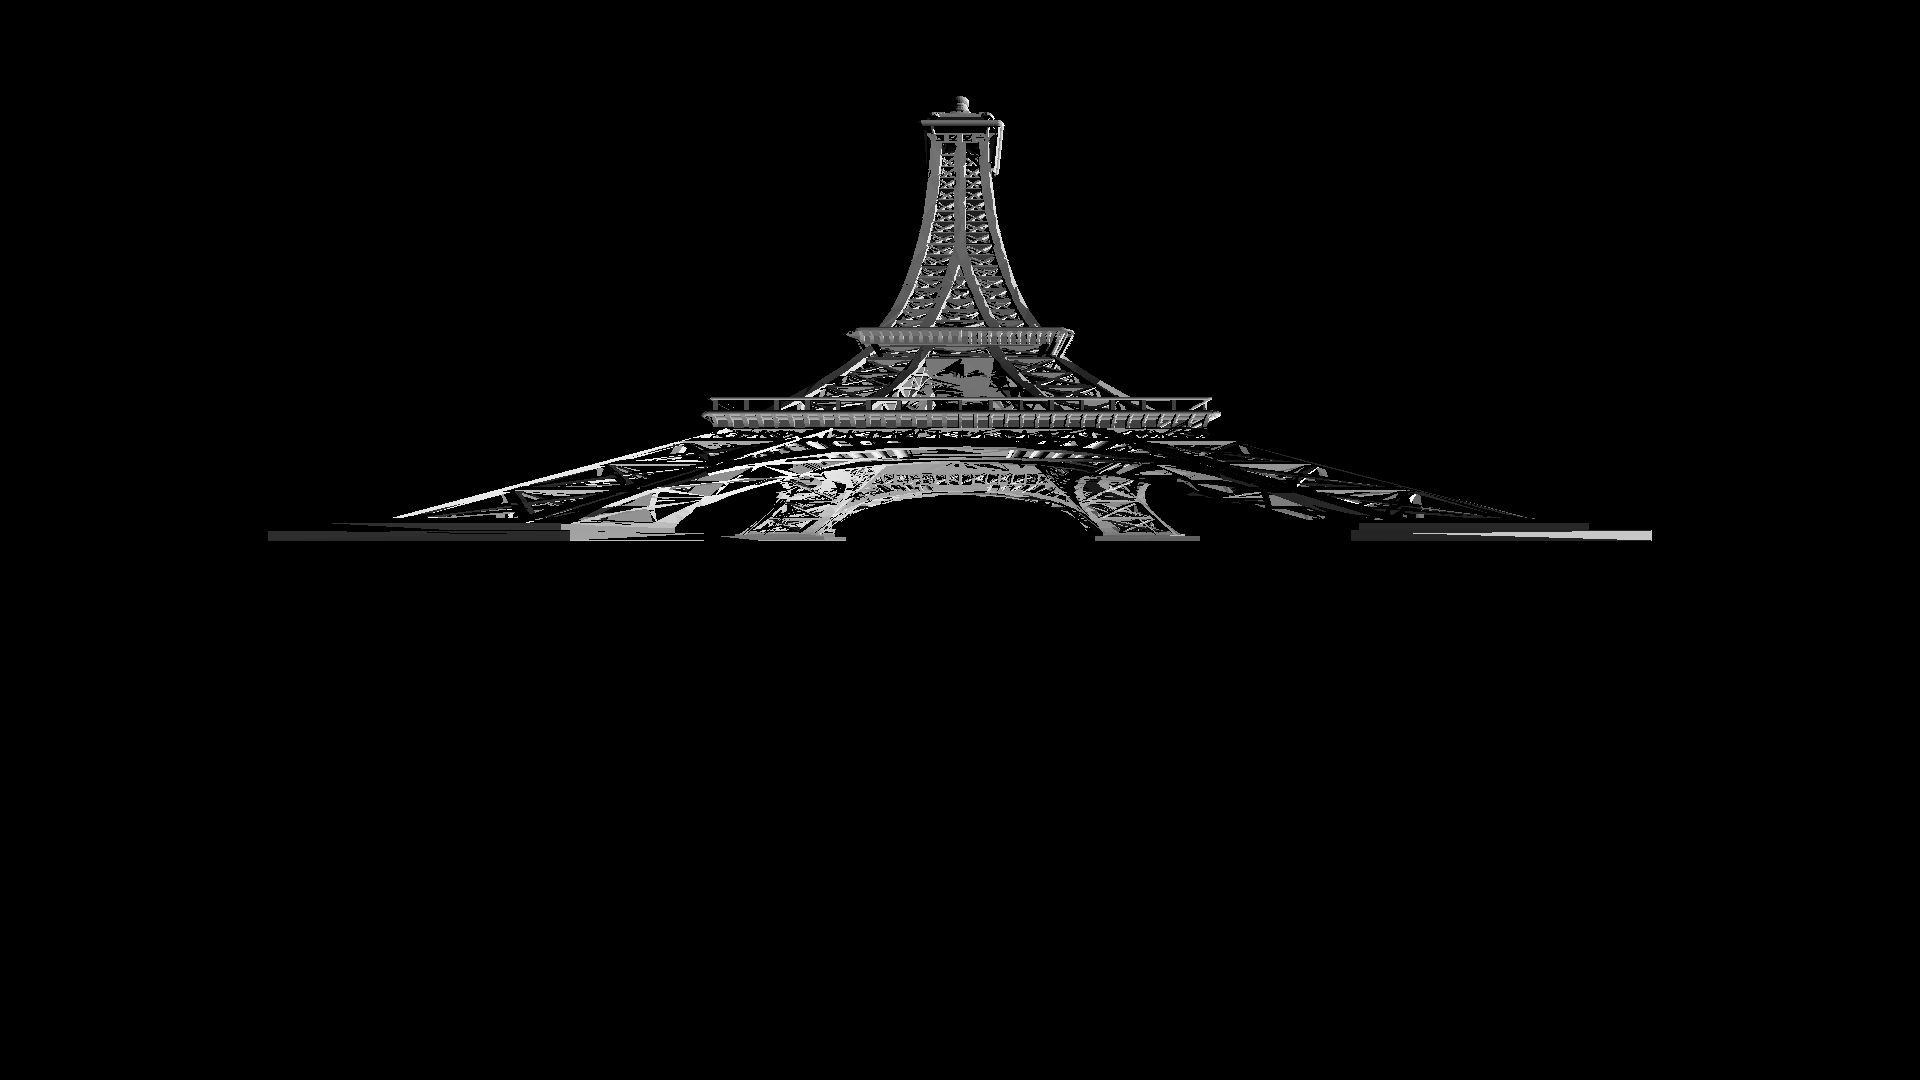
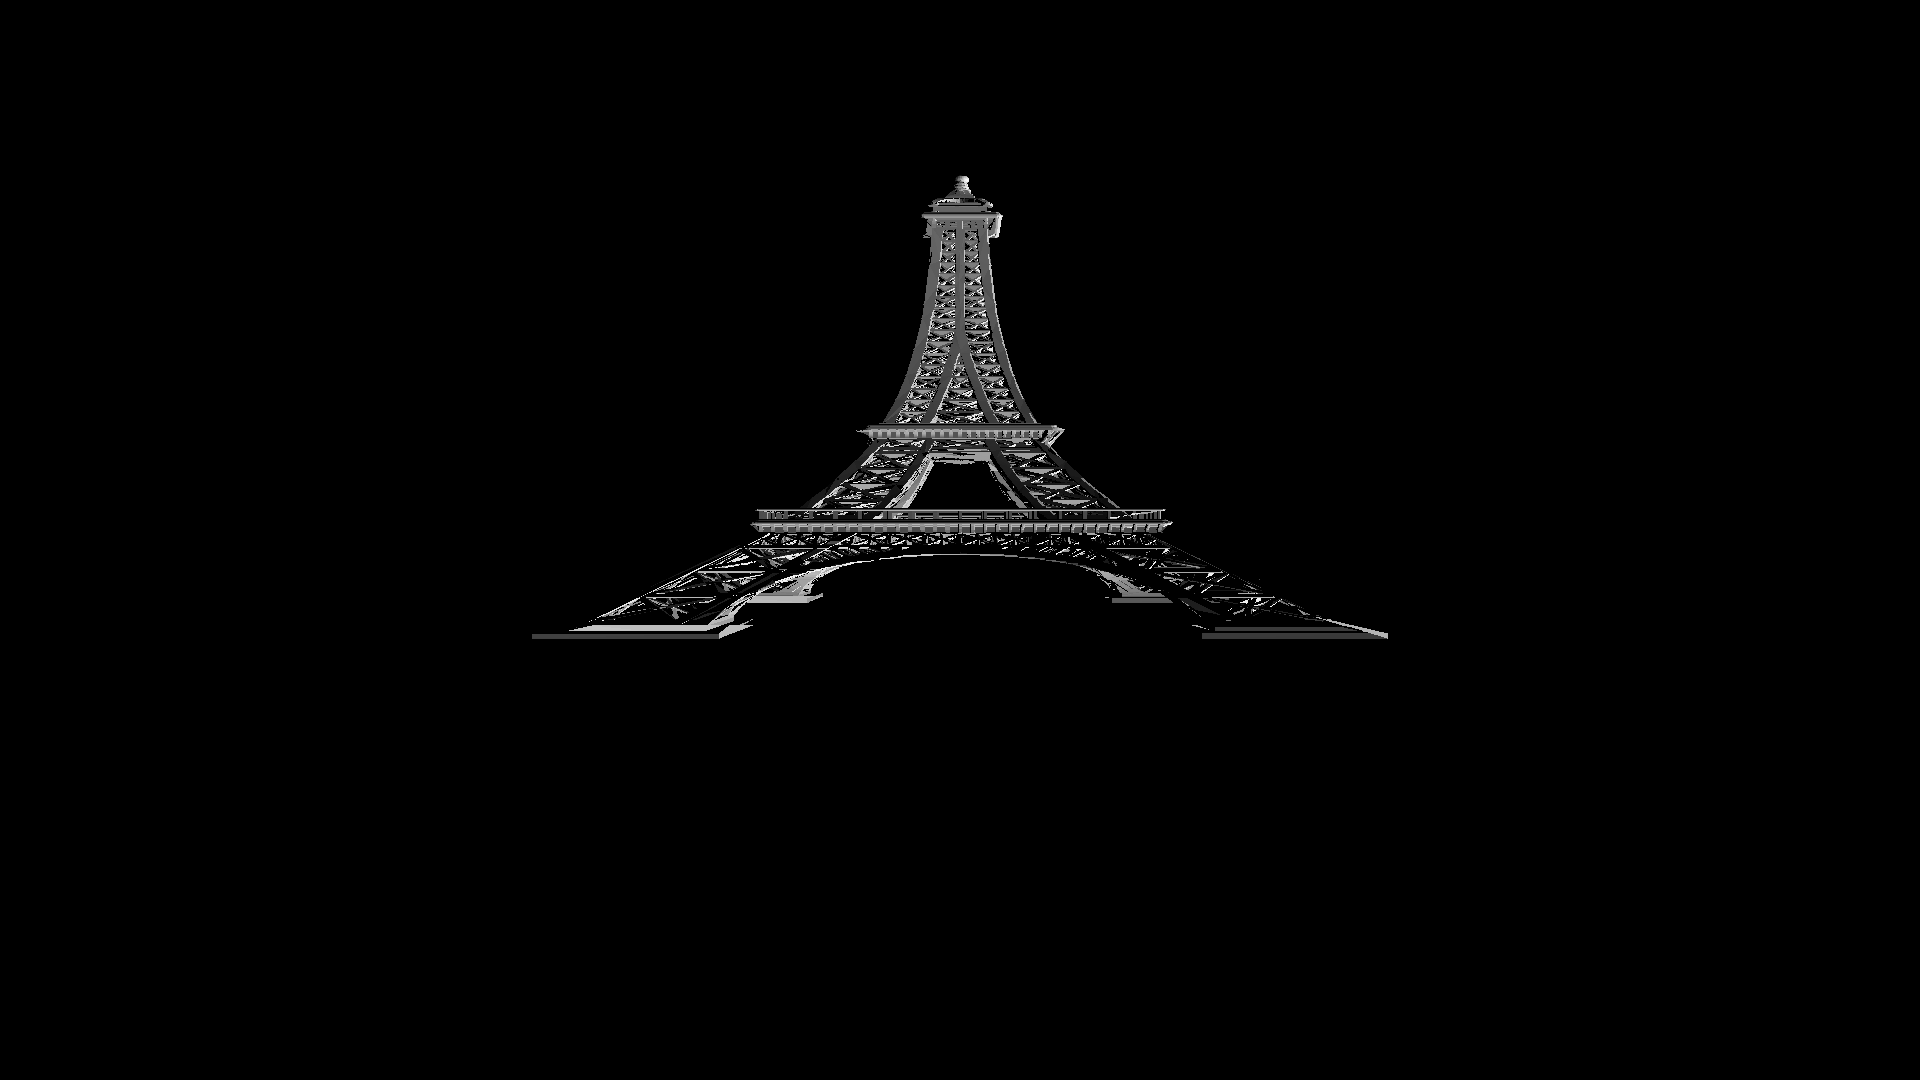
Cleaned up

Changed region(s): [[0.125, 0.0917, 0.875, 0.6111]]

diff --git a/main.py b/main.py
@@ -1,14 +1,11 @@
-from tkinter import W
 from PIL import Image, ImageDraw
 import numpy as np
-import math
 
 #------------------------------------------------------------------
 # CONSTANTS 
 #------------------------------------------------------------------
 aspect = 16.0/9.0
-#aspect = 1.0
-fov = (2 * np.pi) / 9 # 40 degs
+fov = (np.pi) / 2 # 90 degs
 imgy = 1080 
 imgx = int(imgy * aspect)
 
@@ -49,11 +46,6 @@ def rotate(x,y,z):
         [0,0,0,1]
     ])
 
-def to3d(vec4): return vec4[0:3]
-def to2d(vec4): return vec4[0:2]
-
-def toPix(vec4): return tuple(int(v) for v in vec4[0:2])
-
 def unit(v): return v / np.linalg.norm(v)
 def length(v): return np.linalg.norm(v)
 
@@ -61,32 +53,11 @@ def length(v): return np.linalg.norm(v)
 # CLASSES
 #------------------------------------------------------------------
 class Camera():
-    perspective = np.ones((4,4))
-    orientation = np.ones((4,4))
-
     def __init__(self, aspect, fov, near, far, width, height):
-        self.fov = fov 
-        self.aspect = aspect
-        self.near = near
-        self.far = far
-        self.width = width
-        self.height =  height
-
         assert width == int(height * aspect)
-
         trig_y = np.arctan(fov/2.0)
         trig_x = float(aspect) * trig_y
         scale = float(far)/float(far-near)
-
-        '''
-        scale = 1.0/float(far-near)
-        self.perspective = np.array([
-            [2.0/float(width), 0,                 0,                  0],
-            [0,                2.0/float(height), 0,                  0],
-            [0,                0,                 scale,              0],
-            [0,                0,                 -float(near)*scale, 1]
-        ])
-        '''
 
         self.perspective = np.array([
             [trig_x, 0,      0,                  0],
@@ -97,12 +68,11 @@ class Camera():
 
         w_2 = float(width) / 2.0
         h_2 = float(height) / 2.0
-        d_2 = float(far-near) / 2.0
         self.window = np.array([
-            [w_2, 0,   0,   0],
-            [0,   h_2, 0,   0],
-            [0,   0,   d_2, 0],
-            [w_2, h_2, d_2, 1]
+            [w_2, 0,   0, 0],
+            [0,   h_2, 0, 0],
+            [0,   0,   1, 0],
+            [w_2, h_2, 1, 1]
         ])
 
     def look_at(self, eye, at):
@@ -110,7 +80,6 @@ class Camera():
         zaxis = unit(at - eye)
         xaxis = unit(np.cross(np.array([0,1,0]), zaxis))
         yaxis = np.cross(zaxis, xaxis)
-        
         zaxis = -zaxis
         self.orientation = np.array([
             [xaxis[0]           , yaxis[0]           , zaxis[0]           , 0],
@@ -129,17 +98,12 @@ class Camera():
     def toWindow(self, model):
         model.transform(self.window)
 
-    def view(self, model):
-        model.transform(self.orientation)
-        model.transform(self.perspective)
-        model.apply(2)
-        model.transform(self.window)
-
 class Triangle():
-
     def __init__(self, v0, v1, v2):
         s1 = v1[0:3] - v0[0:3]
         s2 = v2[0:3] - v0[0:3]
+
+        # Degenerate triangles get degenerate classes
         if (length(np.cross(s1,s2)) == 0):
             self.vertices = [np.array([0,0,0,1]),np.array([0,0,0,1]),np.array([0,0,0,1])]
             self.color = (0,0,0)
@@ -149,11 +113,9 @@ class Triangle():
         self.normal = unit(np.cross(s1,s2))
         self.vertices = [v0,v1,v2]
         self.color = (0,0,0)
-
     
     def light(self, pos, color, m_diff):
-        l_v = unit(to3d(self.vertices[0]) - pos)
-        dot = np.dot(self.normal, l_v)
+        dot = np.dot(self.normal, unit(self.vertices[0][0:3] - pos))
         self.color = tuple([int(x) for x in (color * m_diff * max(0, dot))])
 
     def pixels(self):
@@ -179,21 +141,9 @@ class Model():
     def parse(self, file):
         with open(file, "r") as f:
             for l in f.readlines():
-                # String Operations
                 nums = [float(x) for x in l.split() if x not in ['', '\n']]
                 assert len(nums) == 9
-                vertices = [np.append(nums[i:i+3], [1]) for i in range(0, len(nums), 3)]
-                self.triangles.append(Triangle(*vertices))
-                '''
-                # Convert list into triangles (sets of verts)
-                vertices = [np.array(nums[i:i+3]) for i in range(0, len(nums), 3)]
-                self.triangles.append([np.append(v, [1]) for v in vertices])
-
-                # Compute normals for later operations                
-                v1 = vertices[1] - vertices[0]
-                v2 = vertices[2] - vertices[0]
-                self.normals.append(unit(np.cross(v1,v2)))
-                '''
+                self.triangles.append(Triangle(*[np.append(nums[i:i+3], [1]) for i in range(0, len(nums), 3)]))
     
     def modify(self, trans, scale, rotate):
         self.transform(trans @ scale @ rotate)
@@ -205,15 +155,13 @@ class Model():
         for tri in self.triangles: tri.div(idx)
 
     def color(self, light):
-        for tri in self.triangles:
-            tri.light(light.position, light.color, self.m_diff)
+        for tri in self.triangles: tri.light(light.position, light.color, self.m_diff)
     
     def cull(self, eye):
         self.triangles = list(tri for tri in self.triangles if np.dot(tri.normal, eye) > 0)
     
     def draw(self):
         self.triangles.sort(key=lambda x:x.vertices[0][2])
-        #return [(tri.color) for tri in self.triangles]
         return [(tri.pixels(), tri.color) for tri in self.triangles]
 
 class Light():
@@ -221,14 +169,9 @@ class Light():
         self.position = pos
         self.color = col
 
-
-
-'''
-tri = Triangle(np.array([-.2,0,.2,1]), np.array([.2,0,.2,1]),np.array([0,.4,0,1]))
-for v in tri.vertices:
-    print(v)
-print(tri.normal)
-'''
+#------------------------------------------------------------------
+# Graphic Processing 
+#------------------------------------------------------------------
 light = Light(np.array([100,100,0]), np.array([255,255,255]))
 
 cam = Camera(aspect, fov, 1, 100, imgx, imgy)
@@ -237,22 +180,9 @@ cam.look_at(np.array([0,0,-50]), np.array([0,0,0]))
 mod = Model(1)
 mod.parse("assets/eiffel_ag.raw")
 
-# World Space Transformations
-# mod.transform(rotate(0,0,0))
-# mod.transform(scale(3,3,3))
-# mod.transform(trans(-20,0,0))
-mod.modify(trans(0,0,0), scale(1,1,1), rotate(0,0,0))
-
-# Backface Culling
-# mod.cull(cam.eye)
-
-# View Transformation
+mod.modify(trans(0,-20,0), scale(.5,.5,.5), rotate(0,0,0))
 cam.toClip(mod)
-
-# Lighting Transformation
 mod.color(light)
-
-# Screen Transformation
 cam.toNDC(mod)
 cam.toWindow(mod)
 
